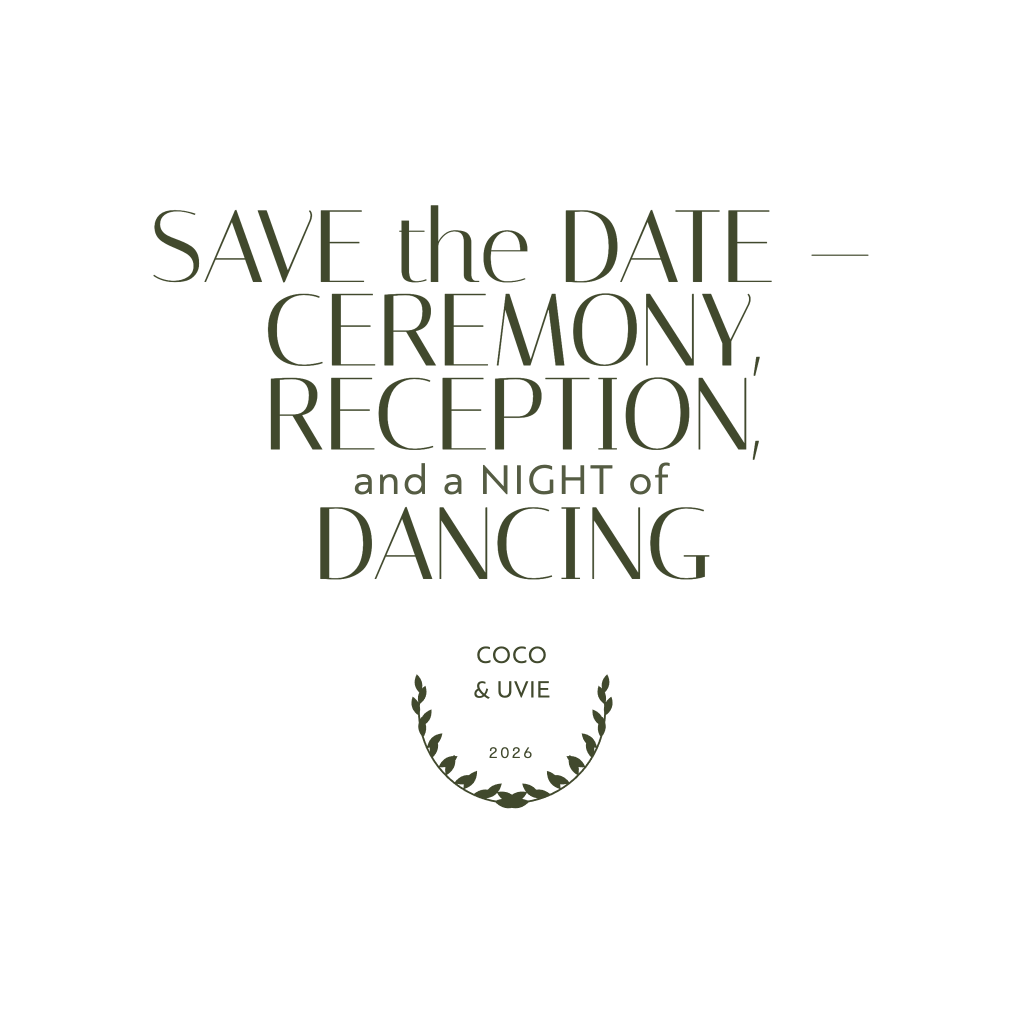
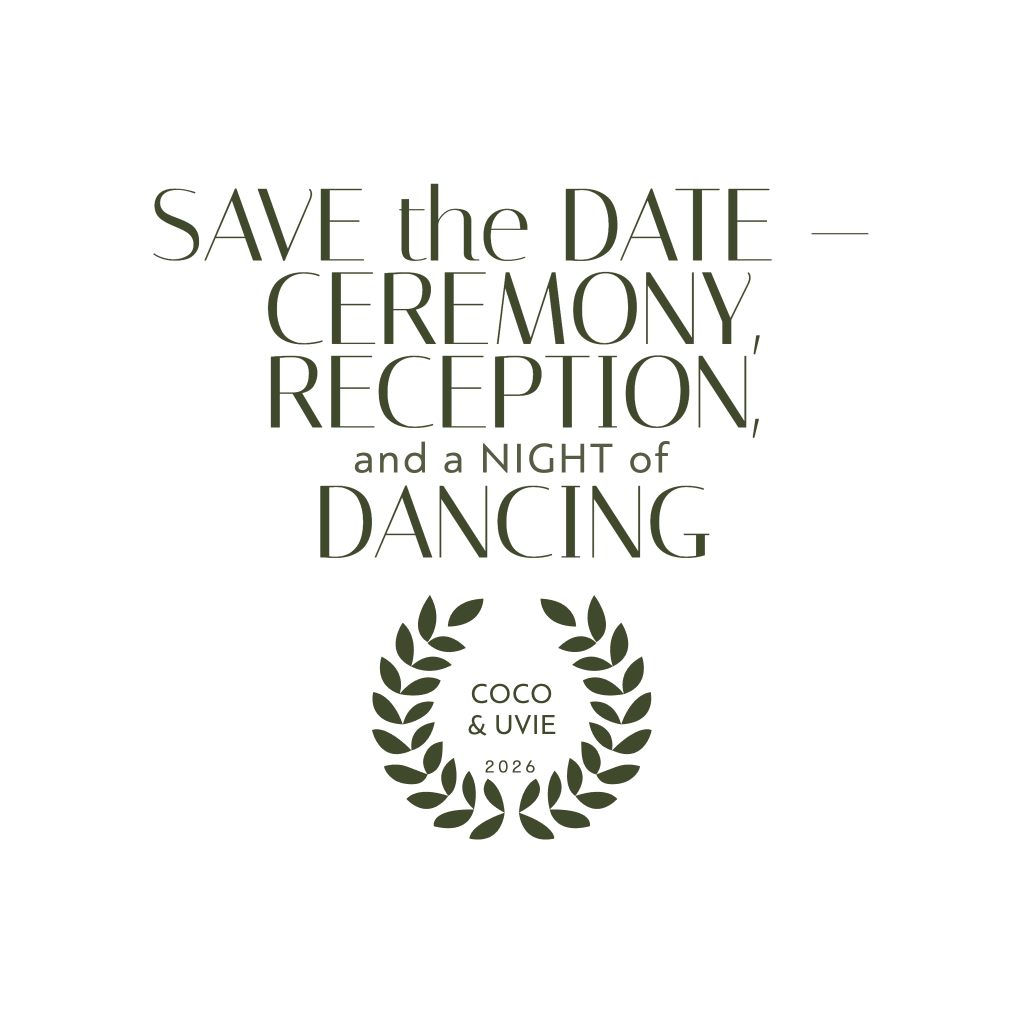
fix(laurel): a real laurel — CC0 vector, painted in each chapter's ink
"It's worse now. Can we just copy theirs exactly?" — then "go ahead and use theirs no
problem."

The badge is a proper laurel now, and the reference's file is still not in this repo.

A laurel is ornamental draughtsmanship, and two hand-built ones read as homemade even
after I measured the proportions off theirs. The answer was to use one drawn by somebody
who draws ornament: "Greek Roman Laurel wreath vector.svg" by Dalovar on Wikimedia
Commons, CC0 1.0 — public domain, no attribution required, commercial use permitted.
It lives at scripts/assets/laurel.svg with its provenance in the file.

⚠ It is also the better ASSET than a crop of theirs would have been:
  • real vector — sharp at any texture size (ours bakes at 560px; theirs is a ~350px
    raster inside their own PNG)
  • no fill of its own, so each chapter paints it with its own ink. A crop of theirs is a
    fixed-colour bitmap that would need an alpha mask per chapter to tint at all.

⚠ THIS SITE HAS FORM HERE. Four per-chapter audio tracks were the reference's, renamed
and unlicensed, and had to be pulled (see site.config.js). Every mark on this page should
be one the couple can keep.

⚠ The upstream file embeds the base64 raster it was traced from and paints all 38 paths
#6D9D30; both are stripped in ours, so what ships is 38 path outlines and nothing else.

The names sit inside the wreath with the year under them — the award-badge arrangement.
[…]

Changed region(s): [[0.125, 0.1562, 0.75, 0.8125], [0.8125, 0.2188, 0.8438, 0.25]]

diff --git a/AUDIT.md b/AUDIT.md
@@ -1513,4 +1513,5 @@ second time** — the rule was already written in ARCHITECTURE.md.
 | 131 | The hover's zoom, third cut | 🟡 Medium | ✅ Fixed 2026-09-18 — user, on #128's 10: *"the zoom is still too exaggerated, I think I much preferred how we had it so closer to ours than reference site's zoom levels. Just a more fluid and a bit more prominent card hover."* `HOVER_PULL` 10 → **5**, `HOVER_RISE` 2 → 1. Measured at 1440×900 a front card sits 77.8 units out: 20.9 brought it to 51.9 (1.7× on screen), 10 to ~62 (1.3×), and 5 lands it at ~68 — about 1.15×, which alongside the lift and the turn reads as a card coming forward rather than one lunging. **The prominence is not the zoom**: what makes it read as picked up is #130, being composited in front of the whole deck. |
 | 132 | The tagline went blank while the deck was scrolling | 🟠 High | ✅ Fixed 2026-09-18 — user: *"as I scroll through the deck the text mesh should change. Right now it's empty while I scroll and only shows when the deck settles on one card."* **Two faults, stacked.** (1) `setTxtChapter` killed the running tween and started a NEW fade to zero from wherever the last one had reached, and the fade back IN only existed inside that tween's `onComplete` — which the next change killed before it could fire. The front card changes every 45° of ring rotation, so a scroll re-targets it several times a second and the opacity was dragged down again and again. One swap now runs at a time and always finishes; a change arriving mid-swap only moves the target, and the swap reads the latest one when it turns over. (2) ⚠ **`alphaTest: 0.5` ON THE TAGLINE MATERIAL MADE EVERY CROSSFADE A HARD CUT.** An alphaTest discards any fragment whose alpha — texel × material opacity — falls under it, so the whole plane vanished the instant its opacity crossed 0.5 and reappeared the instant it crossed back. Every fade this material has ever run was really a cut at the halfway mark. The plane writes no depth, so nothing needed it; removed. ⚠ `cancelTxtSwap()` hands the opacity back at the three points where the scene takes it over (select, the return scrub, the bottom exit) — killing the tween alone would leave `txtSwapping` true, and every later swap would be dropped for the rest of the session. |
 | 133 | The laurel | 🟢 Low | ✅ Added 2026-09-18, **redrawn the same day — see #134** — user: *"can we add the flower thing to the bottom of our text mesh? Ofc change it to Coco & Uvie and the year to 2026."* An award laurel under the tagline reading **COCO & UVIE / 2026**, in the chapter's own ink, baked into the same `cu-txt*.png` texture — one plane means one fade, one depth sort, one scale, and the ink for free. ⚠ **DRAWN, NOT TRACED.** `laurelSvg()` computes both sprays: leaves biggest mid-branch and tapering at both ends (a laurel is a spray; one leaf size reads as a cog), with a smaller second row inside the stem. This repo carries none of the reference's art and this is no exception. ⚠ Set in Bague, not Italiana: the badge is chrome, in the chrome voice, under a display-voice tagline. ⚠ **IT MOVED THE TYPE.** The texture is one centred group, so ~500px of new content in a 2048px square pushed the type up ~60px on screen and into the nav — `TXT_Y_DESKTOP` −2 → **−7.5** puts the type back and drops the badge into the band the deeper dip (#129) opened between the last line and the card tops. ⚠ `node scripts/gen-textures.mjs --taglines` regenerates only `cu-txt*.png`; re-run `gen-image-variants.mjs` after it or the `-sm` textures a phone loads are the old art. |
-| 134 | The laurel was a cog, not a wreath | 🟡 Medium | ✅ Fixed 2026-09-18 — user: *"the flower you added looks weird and bad compared to reference site's."* It was proportion, not craft, and I had drawn it from the small screenshot instead of measuring. Pulled their own tagline texture (`/images/txt-1.png`, 2048², studied in the scratchpad — **nothing from it is in this repo**) and measured the badge at full size: | | | ⚠ **the arc spans ~100° from the bottom, not 130°** — theirs is a wide shallow BOWL, mine was very nearly a closed circle; **each leaf is ~0.25 of the wreath's radius, not 0.43**; and there are **~15 a side, not 8**. Small and dense reads as laurel; big and few reads as a cog. ⚠ **AND A BÉZIER BUG UNDERNEATH IT:** a quadratic peaks at HALF its control offset, so `Q L/2 −W/2 … Q L/2 W/2` draws a leaf **W/2** wide, not W. Every leaf was half the width I thought I was specifying, which is what made the first redraw read as spikes. Controls sit at ±W now. ⚠ Every leaf sweeps along the branch toward its tip, which is why the ones at the bottom lie flat instead of hanging down — an earlier pass mirrored them about the stem and they came out as little birds. |
+| 134 | The laurel was a cog, not a wreath | 🟡 Medium | ✅ Fixed 2026-09-18, **and replaced outright — see #135** — user: *"the flower you added looks weird and bad compared to reference site's."* It was proportion, not craft, and I had drawn it from the small screenshot instead of measuring. Pulled their own tagline texture (`/images/txt-1.png`, 2048², studied in the scratchpad — **nothing from it is in this repo**) and measured the badge at full size: | | | ⚠ **the arc spans ~100° from the bottom, not 130°** — theirs is a wide shallow BOWL, mine was very nearly a closed circle; **each leaf is ~0.25 of the wreath's radius, not 0.43**; and there are **~15 a side, not 8**. Small and dense reads as laurel; big and few reads as a cog. ⚠ **AND A BÉZIER BUG UNDERNEATH IT:** a quadratic peaks at HALF its control offset, so `Q L/2 −W/2 … Q L/2 W/2` draws a leaf **W/2** wide, not W. Every leaf was half the width I thought I was specifying, which is what made the first redraw read as spikes. Controls sit at ±W now. ⚠ Every leaf sweeps along the branch toward its tip, which is why the ones at the bottom lie flat instead of hanging down — an earlier pass mirrored them about the stem and they came out as little birds. |
+| 135 | Stop drawing the laurel | 🟢 Low | ✅ Fixed 2026-09-18 — the redraw was rejected too (*"it's worse now. Can we just copy theirs exactly?"*, then *"go ahead and use theirs no problem"*). **The badge is now a CC0 vector, and the reference's file is still not in this repo.** A laurel is ornamental draughtsmanship; two hand-built ones read as homemade even after the proportions were measured off theirs, and the answer was to use one drawn by somebody who draws ornament: *Greek Roman Laurel wreath vector.svg* by Dalovar on Wikimedia Commons, **CC0 1.0** — public domain, no attribution required, commercial use permitted. Stored at `scripts/assets/laurel.svg` with its provenance in the file. ⚠ It is also the better ASSET: real vector (sharp at any texture size, and ours is baked at 560px where theirs is a ~350px raster), and it carries no fill of its own, so each chapter paints it with its own ink — a crop of theirs would have been a fixed-colour bitmap needing an alpha mask per chapter. ⚠ **This site has form here**: four per-chapter audio tracks were the reference's, renamed and unlicensed, and had to be pulled (see `site.config.js`). Every mark on the page should be one the couple can keep. ⚠ The upstream file embeds the base64 raster it was traced from and paints all 38 paths `#6D9D30`; both are stripped in ours. |

diff --git a/docs/PHASE-2-INNER-PAGES.md b/docs/PHASE-2-INNER-PAGES.md
@@ -200,6 +200,27 @@ specifying, which is what made the first redraw read as spikes. The controls sit
 ⚠ Every leaf sweeps along the branch toward its tip, which is why the ones at the bottom lie flat
 instead of hanging down. A pass that mirrored them about the stem produced little birds.
 
+### ↩↩ And then it stopped being drawn at all (#135)
+
+The redraw was rejected too — *"it's worse now. Can we just copy theirs exactly?"*, then *"go ahead
+and use theirs no problem."* **The badge is a CC0 vector now, and the reference's file is still not
+in this repo.**
+
+A laurel is ornamental draughtsmanship. Two hand-built wreaths read as homemade even after the
+proportions were measured off theirs, and the answer was to use one drawn by somebody who draws
+ornament: *Greek Roman Laurel wreath vector.svg* by Dalovar on Wikimedia Commons, **CC0 1.0** —
+public domain, no attribution required, commercial use permitted. It lives at
+`scripts/assets/laurel.svg` with its provenance in the file.
+
+⚠ It is also the better **asset**. Real vector, so it stays sharp at any texture size (ours is
+baked at 560px; theirs is a ~350px raster inside their PNG), and it carries no fill of its own, so
+each chapter paints it with its own ink — a crop of theirs would have been a fixed-colour bitmap
+needing an alpha mask per chapter.
+
+⚠ **This site has form here.** Four per-chapter audio tracks were the reference's, renamed and
+unlicensed, and had to be pulled (`site.config.js`). Every mark on the page should be one the couple
+can keep.
+
 ---
 
 ## ▶▶ THE HOVER, TUNED DOWN — AND THE DECK GIVEN ITS AIR BACK — 2026-09-18 (AUDIT #128)

diff --git a/docs/CONTENT-AND-ASSETS.md b/docs/CONTENT-AND-ASSETS.md
@@ -393,10 +393,15 @@ silhouette/colour specs, except for the two originals where the reference showed
 The reference pairs **Yaroslava** with wine, **Markita** with la-storia, and **Kohana + Yaroslava**
 with amour; we use the subset whose images we host.
 
-**The laurel badge** under every tagline (`COCO & UVIE / 2026`) is drawn by `laurelSvg()` in
-`scripts/gen-textures.mjs` and baked into `cu-txt1..4.png`, in each chapter's ink. It is not data:
-changing the names or the year means editing that script and re-running
-`node scripts/gen-textures.mjs --taglines`, then `gen-image-variants.mjs` for the `-sm` copies.
+**The laurel badge** under every tagline (`COCO & UVIE / 2026`) is baked into `cu-txt1..4.png` in
+each chapter's ink. The wreath is **`scripts/assets/laurel.svg`** — *Greek Roman Laurel wreath
+vector.svg* by Dalovar on Wikimedia Commons, **CC0 1.0** (public domain, no attribution required,
+commercial use permitted); it carries no fill of its own, which is how it takes each chapter's ink.
+⚠ The reference site's laurel is a raster inside their own texture and is **not** in this repo —
+same rule that took out the four unlicensed audio tracks (see `site.config.js`). The names and the
+year are not data: changing them means editing `badgeSvg()` in `scripts/gen-textures.mjs` and
+re-running `node scripts/gen-textures.mjs --taglines`, then `gen-image-variants.mjs` for the `-sm`
+copies.
 
 Google Fonts (loaded via `<link>` in `nuxt.config.ts`, built from `SITE.googleFonts`):
 **Italiana**, **Monoton**, **Over the Rainbow**, **Caveat**. The first three are the loader's

diff --git a/scripts/README.md b/scripts/README.md
@@ -10,7 +10,13 @@ Regenerates every generated texture the WebGL scene uses, into `public/images/`:
 |---|---|
 | `cu-p1..4.svg` | Poster card **faces** — editable SVG sources (bg = chapter `accentLight`, title in the chapter font, ink = `accent`). |
 | `cu-p1..4.png` | The same faces **rendered to PNG** — this is what the scene loads. |
-| `cu-txt1..4.png` | The centre **tagline** art (2048×2048, transparent) — the four lines of type **and the laurel badge** under them (`COCO & UVIE / 2026`, drawn by `laurelSvg()`, in the chapter's ink). |
+| `cu-txt1..4.png` | The centre **tagline** art (2048×2048, transparent) — the four lines of type **and the laurel badge** under them (`COCO & UVIE / 2026`, in the chapter's ink). |
+
+**`assets/laurel.svg`** is the badge's wreath: *Greek Roman Laurel wreath vector.svg* by Dalovar
+(Wikimedia Commons), **CC0 1.0** — public domain, no attribution required, commercial use fine. It
+carries no `fill`, so `badgeSvg()` paints it with the chapter's ink. Two hand-drawn wreaths were
+tried first and both read as homemade (AUDIT #133–#135); the reference's own laurel is **not** in
+this repo and should not be added.
 | `cu-logo.png` | The nav/card **wordmark** (480×480, transparent). |
 | `cu-favicon.png` | The **browser-tab mark** (180×180) — the ampersand, on the site's ground. Replaced the reference site's star `favicon.ico`, deleted 2026-09-03. |
 
